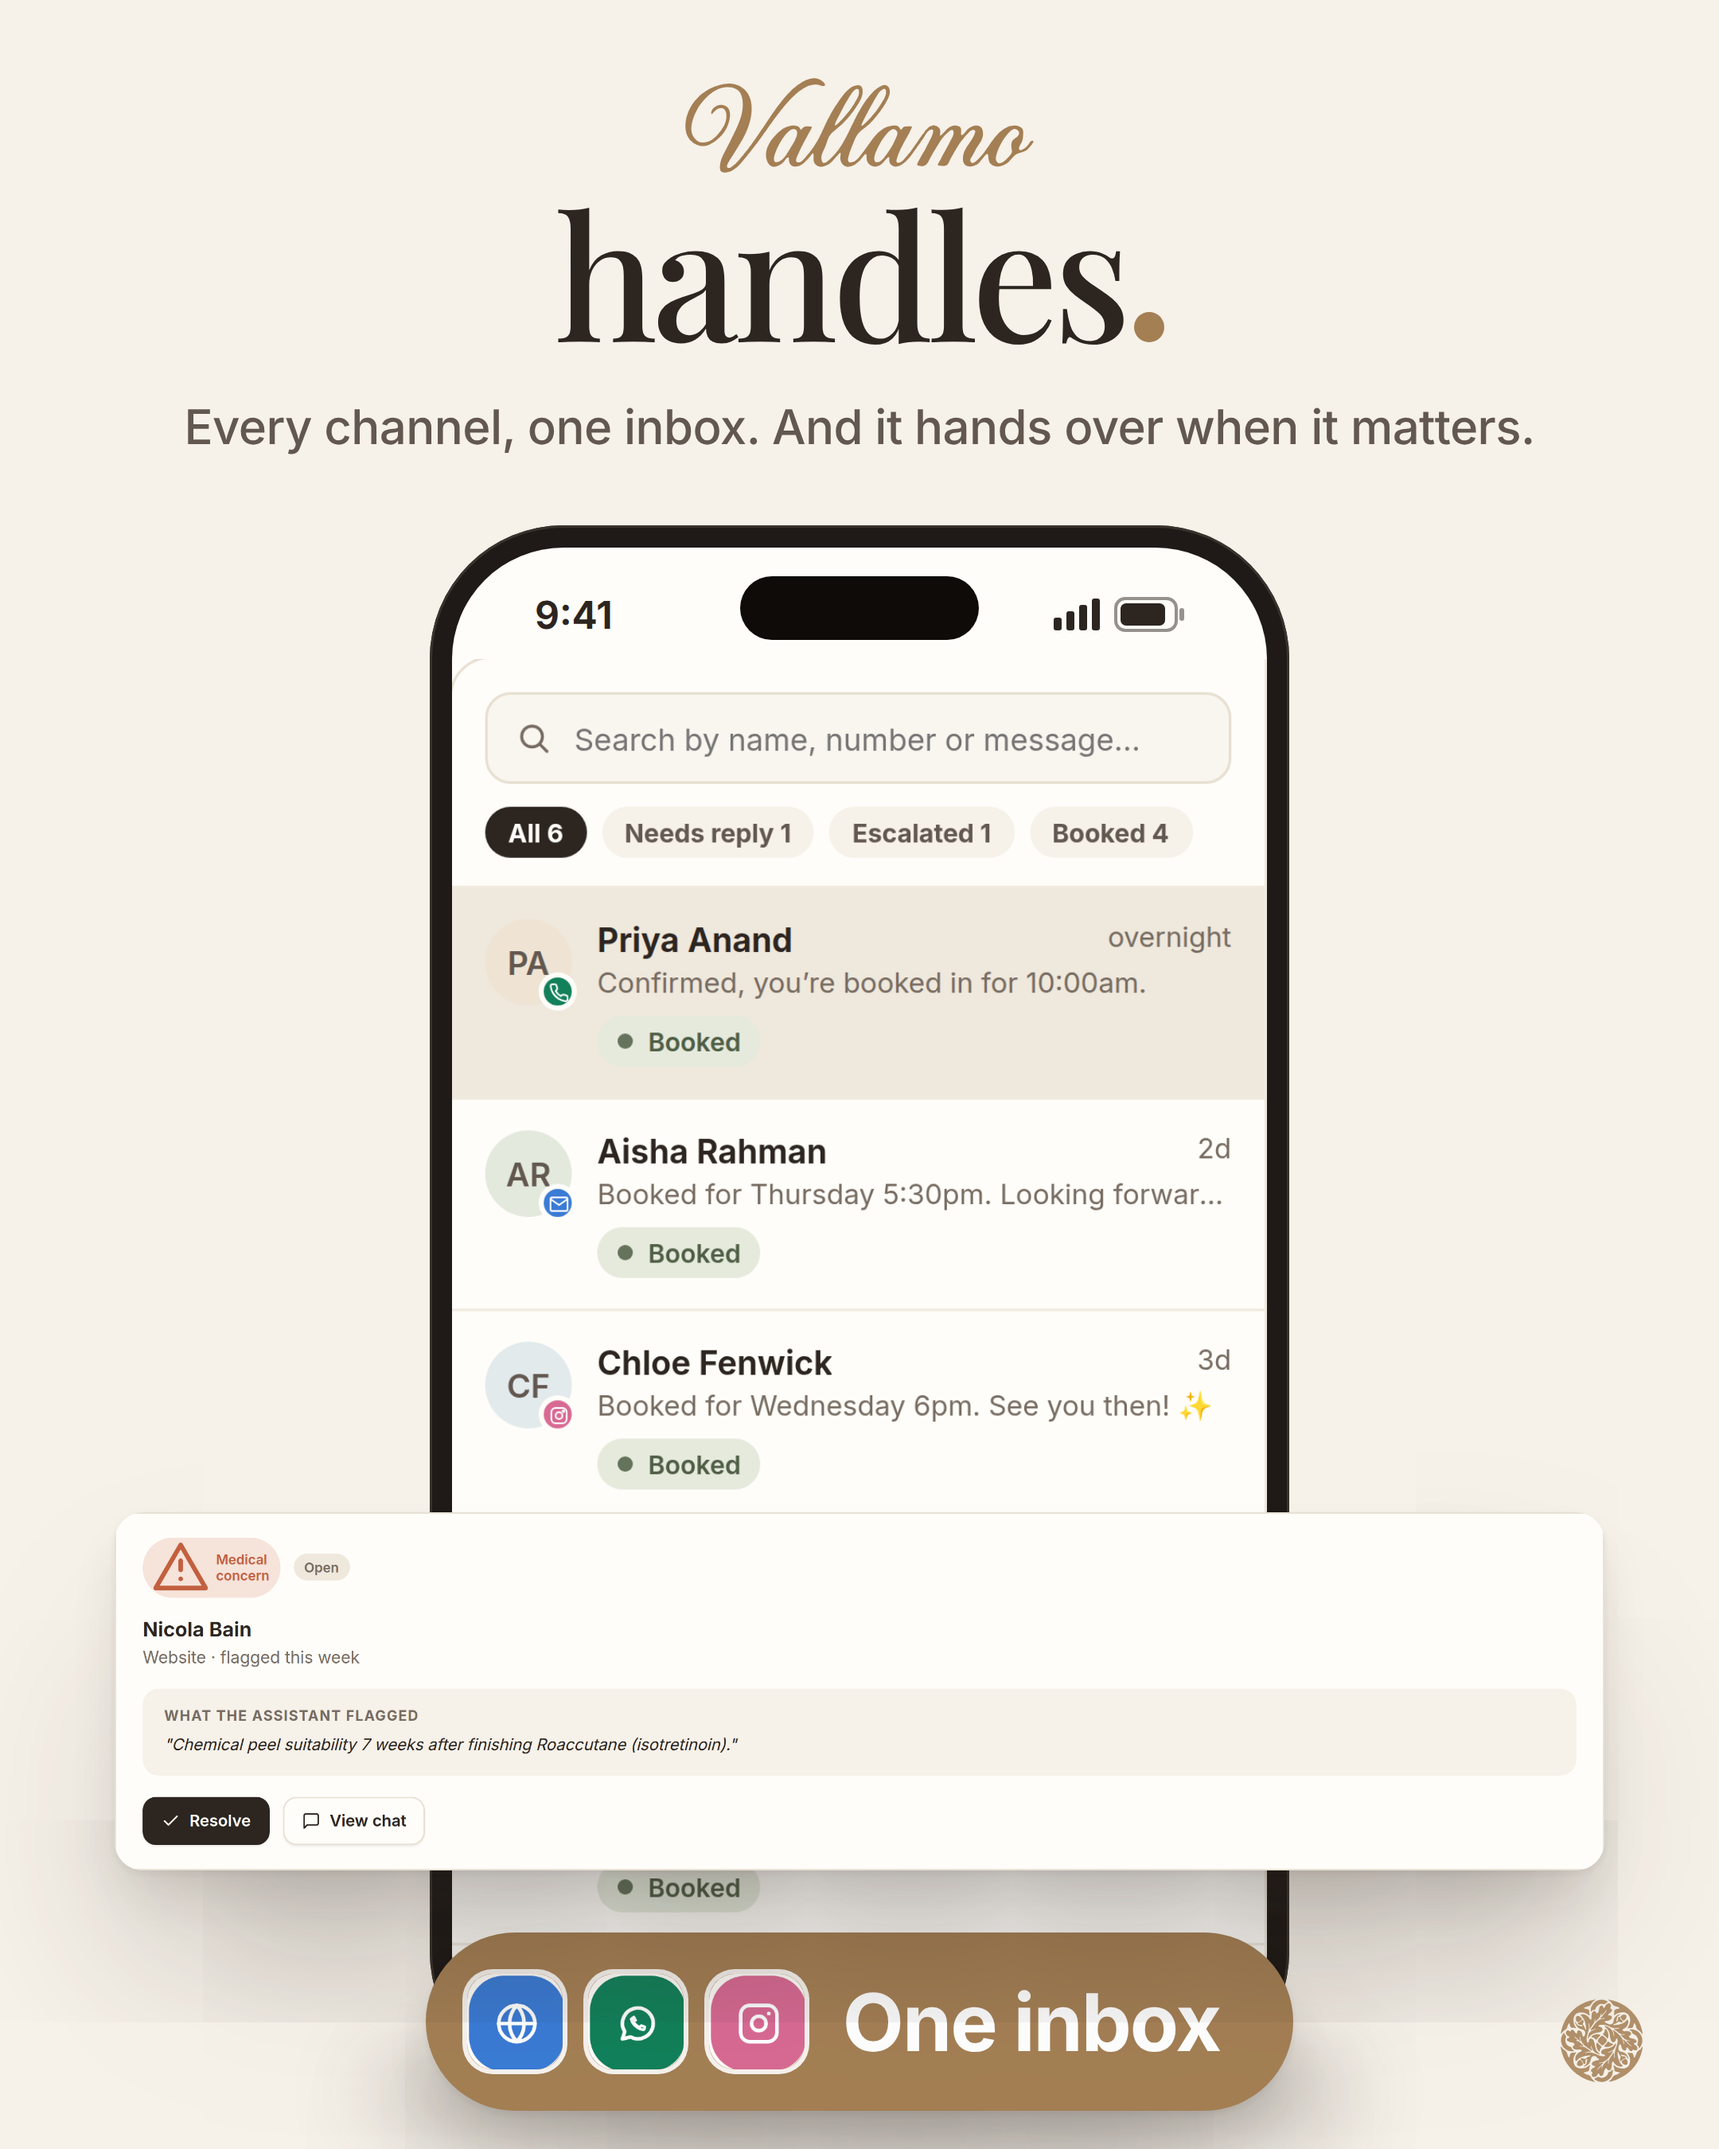
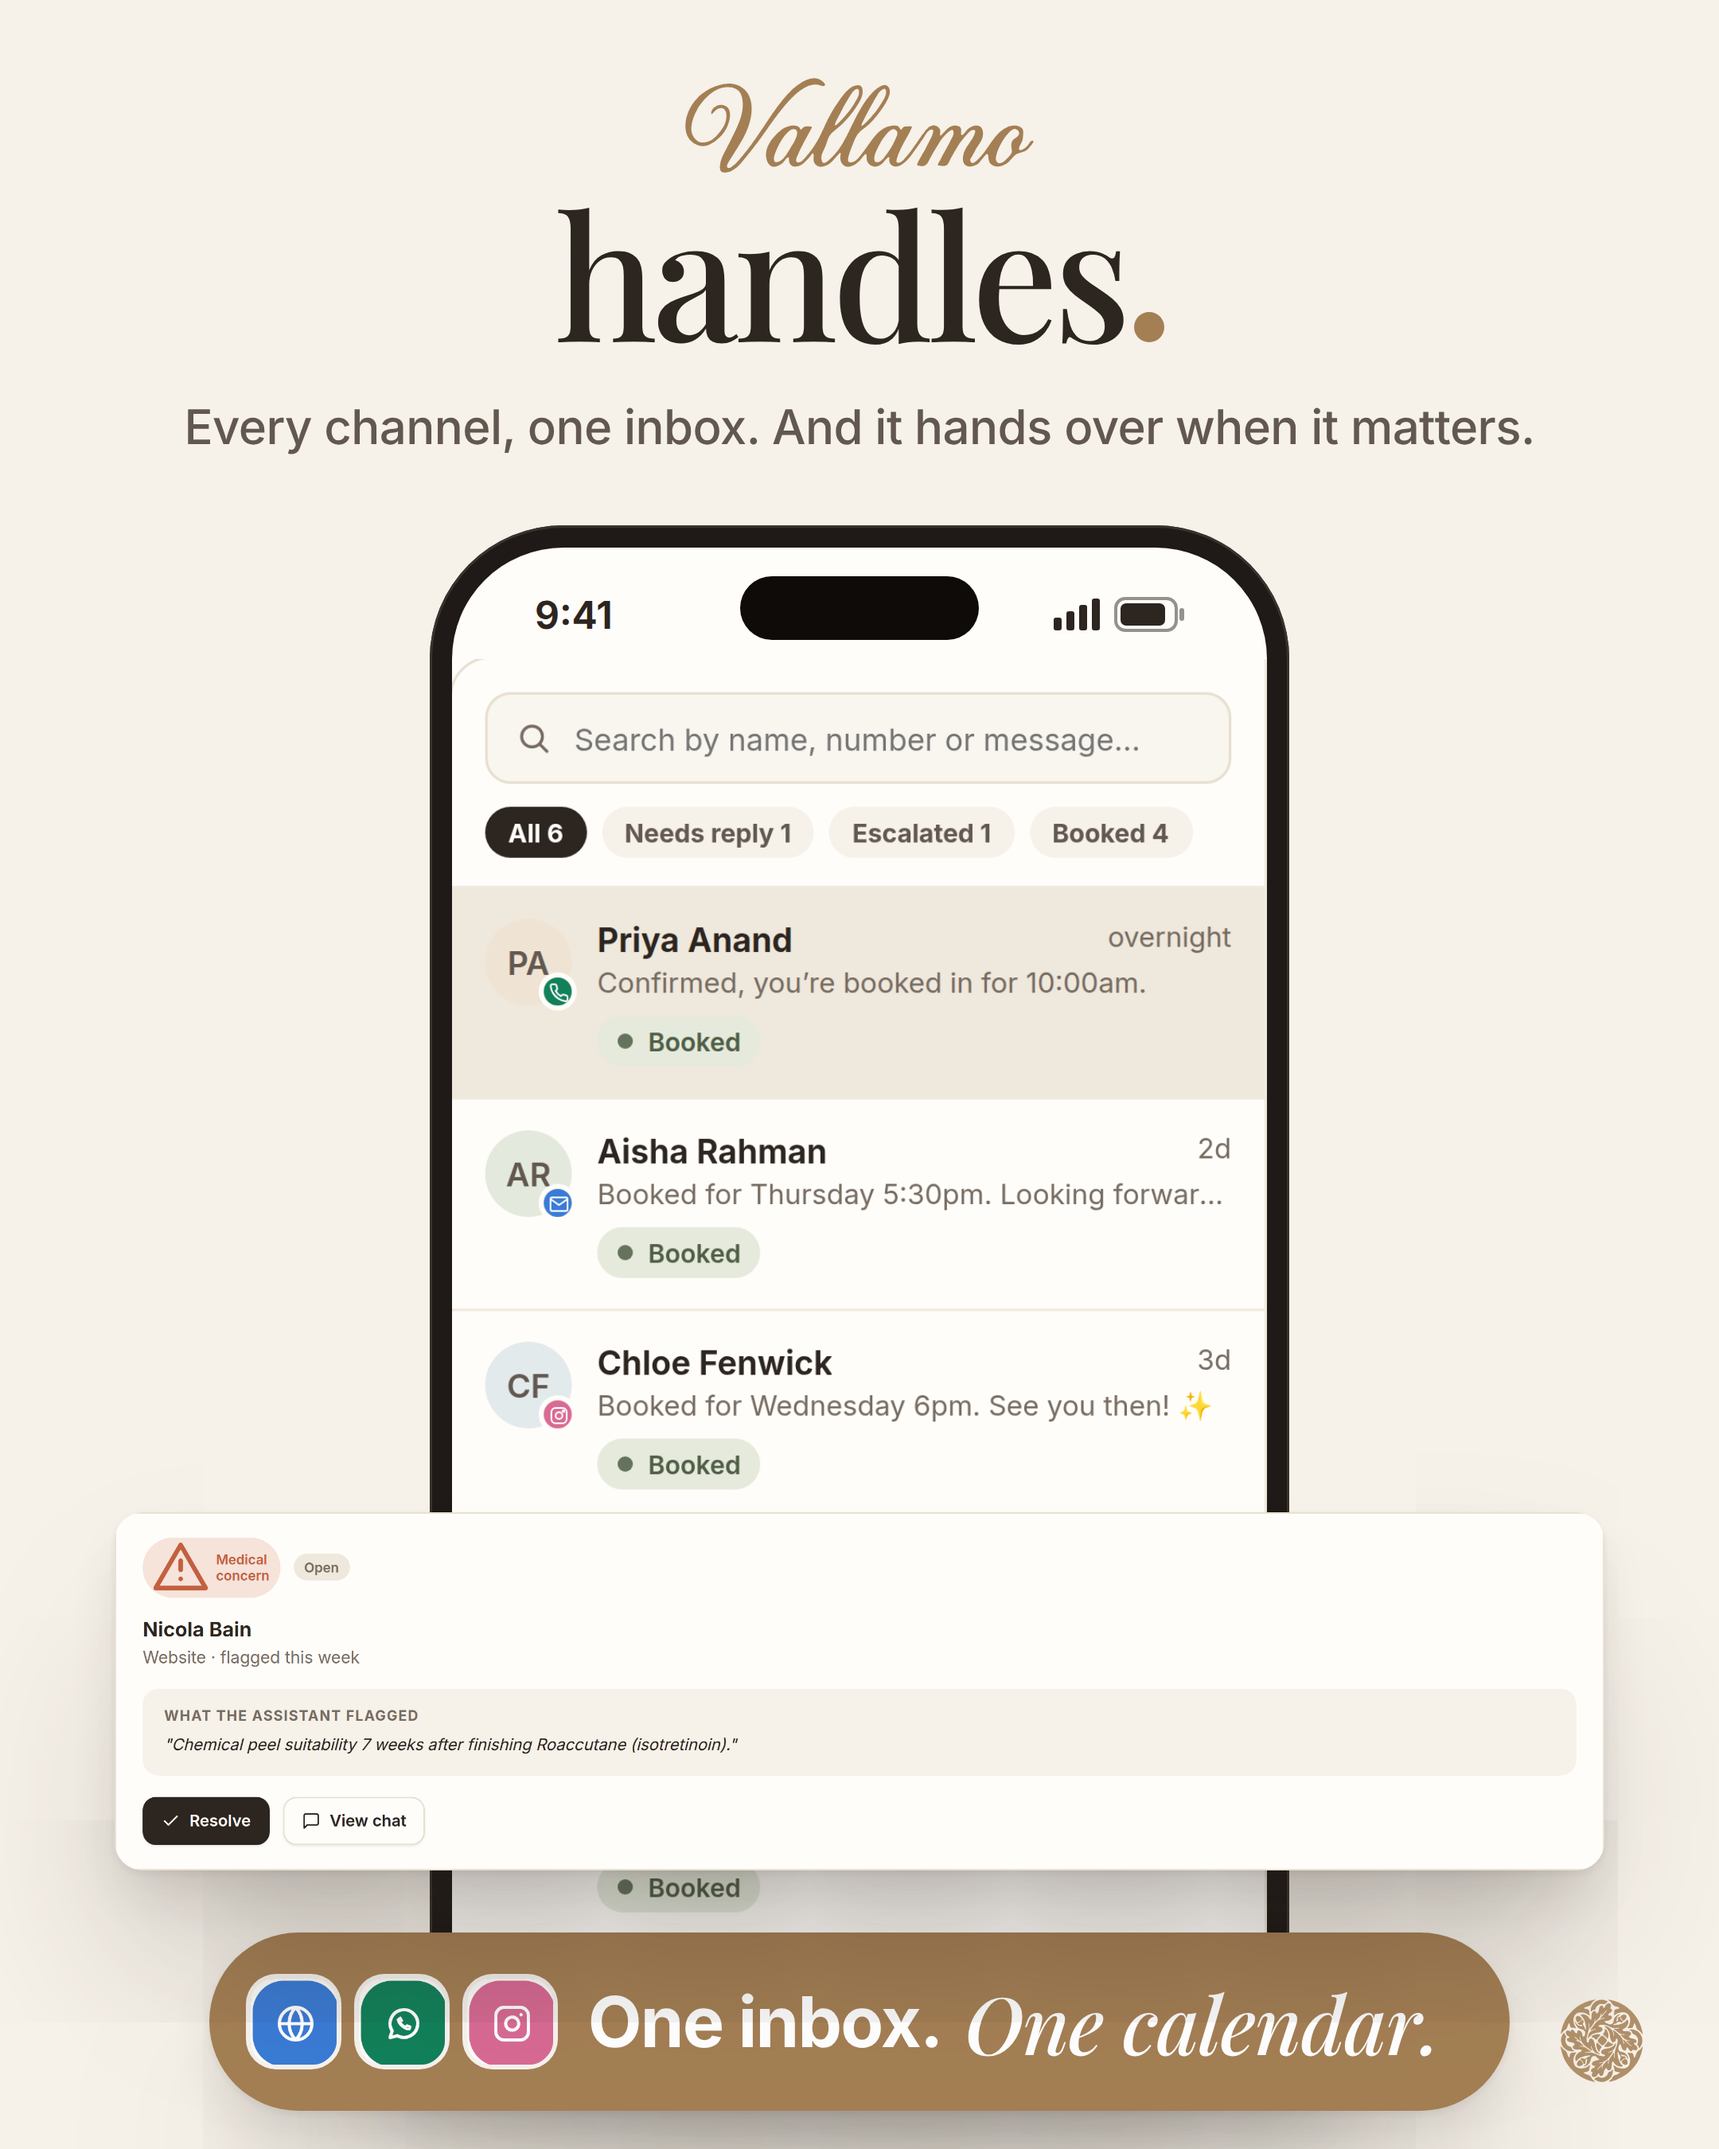
Instagram pin 3: One inbox. One calendar.
Claude-Session: https://claude.ai/code/session_015ws7exuDDXNV8qCuFUsUFK

Changed region(s): [[0.1241, 0.9022, 0.8995, 1.0]]

diff --git a/vallamo-film/videos/src/films/insta/Pins.tsx b/vallamo-film/videos/src/films/insta/Pins.tsx
@@ -170,11 +170,12 @@ const PINS = {
         </Phone>
         {/* One inbox: a selling point, so it gets the big clay pill. */}
         <div style={{ position: "absolute", left: 0, right: 0, top: 1214, display: "flex", justifyContent: "center" }}>
-          <div style={{ display: "flex", alignItems: "center", gap: 16, height: 112, padding: "0 46px 0 26px", borderRadius: 999, background: C.clay, boxShadow: SHADOW.lift, fontFamily: FONT.sans, fontWeight: 700, fontSize: 50, letterSpacing: "-0.02em", color: "#FFFFFF", whiteSpace: "nowrap" }}>
+          <div style={{ display: "flex", alignItems: "center", gap: 14, height: 112, padding: "0 44px 0 26px", borderRadius: 999, background: C.clay, boxShadow: SHADOW.lift, fontFamily: FONT.sans, fontWeight: 700, fontSize: 44, letterSpacing: "-0.02em", color: "#FFFFFF", whiteSpace: "nowrap" }}>
             {(["m-ch-web", "m-ch-wa", "m-ch-ig"] as PieceName[]).map((c) => (
-              <div key={c} style={{ borderRadius: 16, boxShadow: "0 0 0 3px rgba(255,255,255,.9)" }}><ChannelIcon card={c} size={60} /></div>
+              <div key={c} style={{ borderRadius: 16, boxShadow: "0 0 0 3px rgba(255,255,255,.9)" }}><ChannelIcon card={c} size={54} /></div>
             ))}
-            <span style={{ marginLeft: 8 }}>One inbox</span>
+            <span style={{ marginLeft: 8 }}>One inbox.</span>
+            <span style={{ fontFamily: FONT.serif, fontStyle: "italic", fontWeight: 500, fontSize: 50, letterSpacing: "-0.01em" }}>One calendar.</span>
           </div>
         </div>
         <Demo name="handover" {...D.handover} k={0.84} x={72} y={950} style={{ borderRadius: 18, boxShadow: SHADOW.lift }} shadow={false} />
